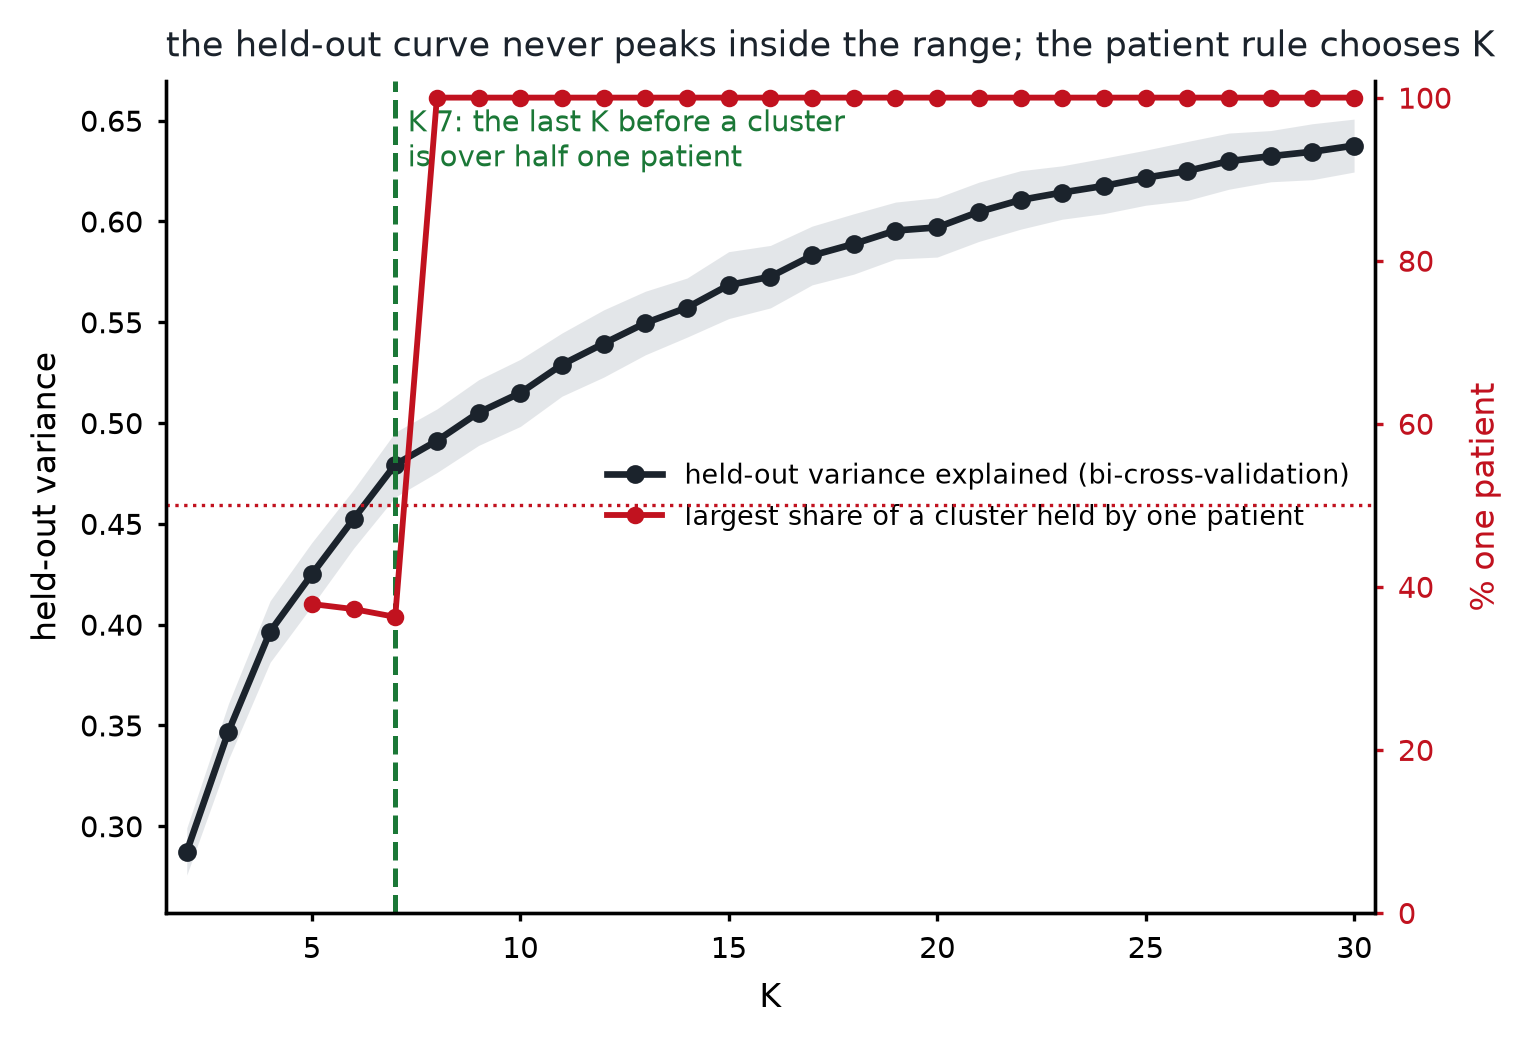
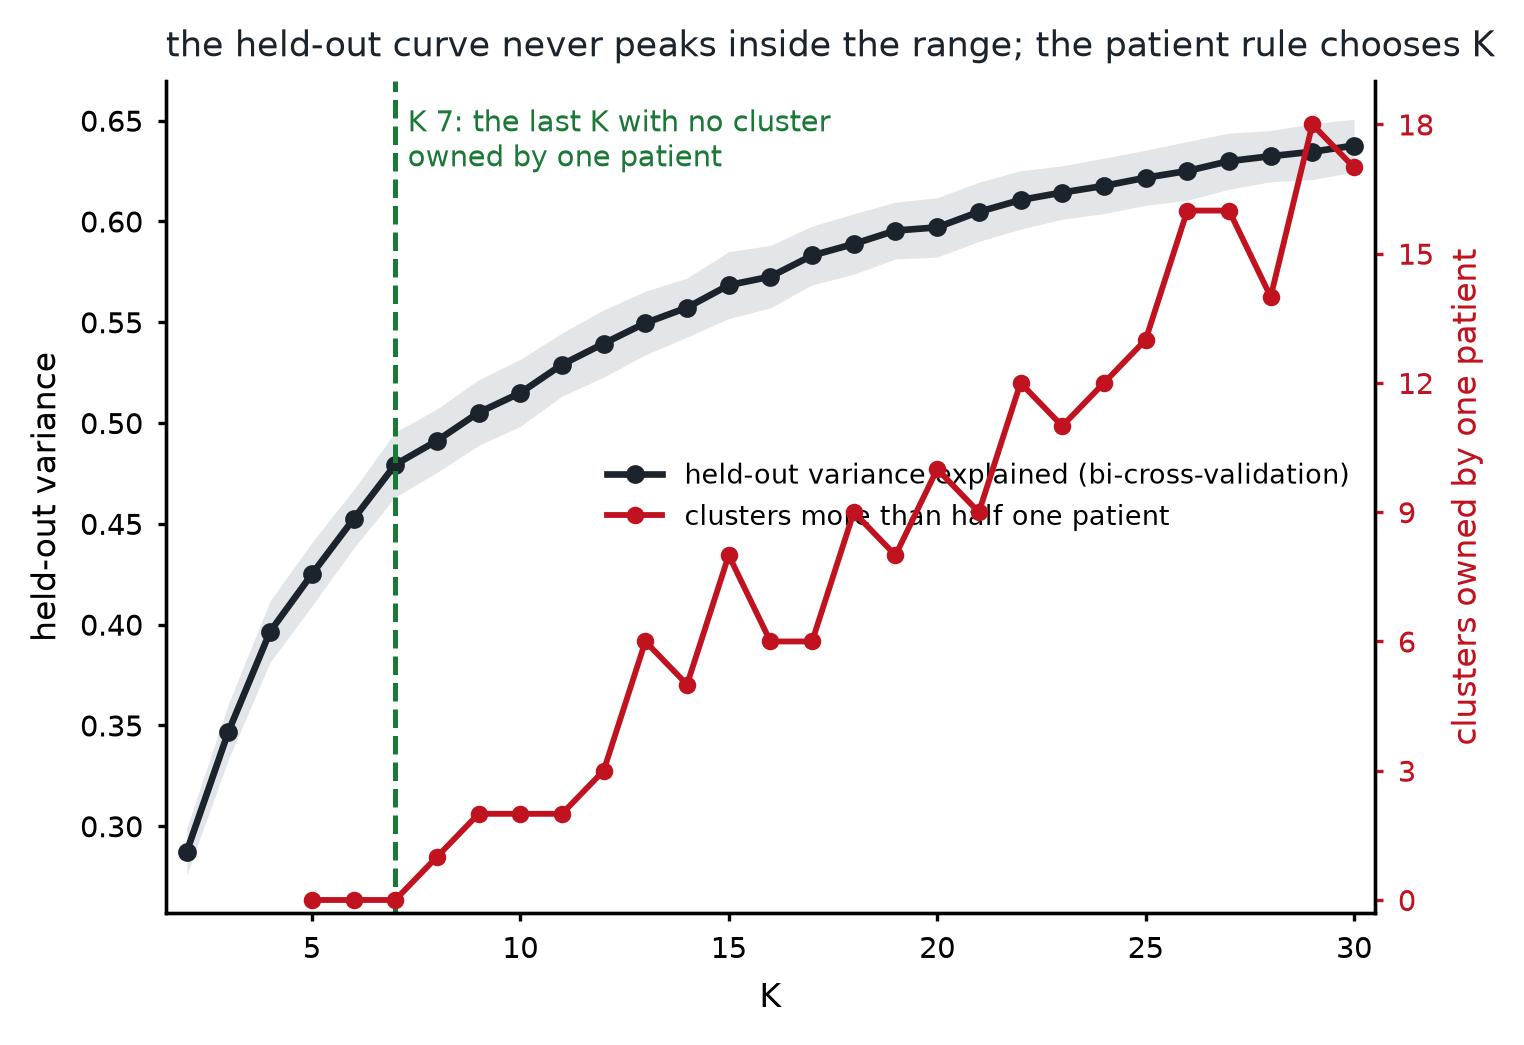
Poster round 3: figure 1 as one column (task screens, aligned ERSPs, cohort brains), agreement bars without the table (values for a native table in the prompt), the K panel counting patient-owned clusters, the Neurosynth enrichment panel from member_measures (Lora, 2026-11-03)
make_poster_assets.py --no-render reuses the saved brain tiles when the screen is locked (VTK crashes outright).

diff --git a/02_FBM_Clustering/make_poster_assets.py b/02_FBM_Clustering/make_poster_assets.py
@@ -56,6 +56,7 @@ DARK, LIGHT = "#3a3a3a", "#9a9a9a"                        # FIG 2C's greys: algo
 NL = chr(10)
 DPI = 300
 EXAMPLE = ("EL035", "TTG_R1")                              # the paper's example electrode (FIG 1 B)
+NO_RENDER = False                                           # --no-render: reuse the saved brain tiles (a locked screen crashes VTK)
 
 
 def cache_input_dir():
@@ -157,6 +158,64 @@ def row1(d):
     return p
 
 
+# ---------------------------------------------------------------- figure 1 as a column
+def row1_column(d):
+    """The task screens; under them one electrode's full ERSP and its 15-band summary, condition
+    by condition in the same columns; the three cohort brains at the bottom."""
+    fig0 = CL / "paper_figures" / "paper" / "FIG0_cohort_v17.png"
+    task0 = Image.open(fig0).convert("RGB"); w0, h0 = task0.size
+    bands = [(0.170, 0.405), (0.415, 0.650), (0.660, 0.895)]
+    screens = [task0.crop((int(x0 * w0), int(0.005 * h0), int(x1 * w0), int(0.125 * h0))) for x0, x1 in bands]
+    inp = cache_input_dir()
+    df, Xc = CC.build_concat_dataset(inp, conditions=("audio", "picture", "reading"), require_high_activity=True, cache_dir=CC.DEFAULT_CONCAT_CACHE, verbose=False)
+    i_raw = int(np.where((df.patient_id.values == EXAMPLE[0]) & (df.electrode.astype(str).values == EXAMPLE[1]))[0][0])
+    raw = Xc[i_raw]
+    m = d["meta"]; i15 = [k_ for k_, (p, e) in enumerate(zip(m.patient_id, m.electrode)) if p == EXAMPLE[0] and P2.norm(e) == P2.norm(EXAMPLE[1])][0]
+    cube = d["C"][i15]
+    pcol = P2.patient_colours(d); n = len(d["xyz"])
+    xt = lambda ax, c_: (ax.set_xticks([0, 50, 100] if c_ == 2 else [0, 50]), ax.set_xticklabels(["0", "50", "100 %"] if c_ == 2 else ["0", "50"], fontsize=6.5))
+    cols = np.array([pcol[p][:3] for p in d["patient"]]); rads = np.full(n, 1.35); al = np.full(n, 235.0)
+    brains = {}
+    for s_ in ("L", "T", "R"):
+        tile = OUT / f"tile_brain_{s_}.png"
+        if NO_RENDER:                               # a locked screen crashes VTK outright: reuse the saved tile
+            if not tile.exists():
+                raise SystemExit(f"--no-render but no saved tile {tile.name}: run once with the screen unlocked")
+            brains[s_] = np.asarray(Image.open(tile).convert("RGBA"))
+        else:
+            brains[s_] = render_all(s_, d, cols, rads, al, zoom=1.25)
+            Image.fromarray(brains[s_]).save(tile)
+    nt_raw = raw.shape[1] // 3; nt = d["nt"]
+    fig = plt.figure(figsize=(7.4, 10.2), dpi=DPI)
+    gs = GridSpec(4, 3, figure=fig, height_ratios=[1.0, 1.25, 0.9, 1.7], left=0.09, right=0.93, top=0.985, bottom=0.03, hspace=0.28, wspace=0.05)
+    for c_ in range(3):
+        ax = image_axes(fig, gs[0, c_]); ax.imshow(screens[c_])
+    for c_ in range(3):
+        ax = fig.add_subplot(gs[1, c_])
+        im = ax.imshow(raw[:, c_ * nt_raw:(c_ + 1) * nt_raw], aspect="auto", origin="lower", cmap="bwr", vmin=-7, vmax=7, extent=(0, 100, 0, 400))
+        ax.axvline(50, color=INK, lw=0.7, ls="--"); xt(ax, c_); ax.tick_params(labelsize=6.5, length=2)
+        if c_ == 0:
+            ax.set_yticks([0, 100, 200, 300, 400]); ax.set_ylabel("Hz", fontsize=7.5)
+            ax.set_title(f"the full ERSP of one electrode ({EXAMPLE[0]} {EXAMPLE[1]}), ±7 dB", fontsize=7.5, color=MUTED, loc="left")
+        else:
+            ax.set_yticks([])
+    for c_ in range(3):
+        ax = fig.add_subplot(gs[2, c_])
+        ax.imshow(cube[c_], aspect="auto", origin="lower", cmap="bwr", vmin=-7, vmax=7, extent=(0, 100, -0.5, 14.5))
+        ax.axvline(50, color=INK, lw=0.7, ls="--"); xt(ax, c_); ax.tick_params(length=2)
+        if c_ == 0:
+            ax.set_yticks([0, 4, 7, 9, 14]); ax.set_yticklabels([d["bands"][i].replace("Hz", "") for i in (0, 4, 7, 9, 14)], fontsize=6.5); ax.set_ylabel("Hz", fontsize=7.5)
+            ax.set_title("the same electrode as the pipeline sees it: 15 bands × 30 time bins per condition", fontsize=7.5, color=MUTED, loc="left")
+        else:
+            ax.set_yticks([])
+    cax = fig.add_axes([0.945, 0.40, 0.012, 0.30]); cb = fig.colorbar(im, cax=cax); cb.ax.tick_params(labelsize=6.5); cb.set_label("dB", fontsize=7)
+    for c_, (s_, ttl) in enumerate((("L", f"left, {int((d['hemi'] == 'L').sum())} electrodes"), ("T", f"from above, {n}"), ("R", f"right, {int((d['hemi'] == 'R').sum())}"))):
+        ax = image_axes(fig, gs[3, c_]); ax.imshow(brains[s_]); ax.set_title(ttl, fontsize=7.5, color=MUTED, loc="left")
+    fig.text(0.09, 0.005, "the 1587 electrodes that passed the response gate, each patient its colour", fontsize=7.5, color=MUTED, va="bottom")
+    p = OUT / "figure1_column.png"; fig.savefig(p, facecolor="white"); plt.close(fig)
+    return p
+
+
 # ---------------------------------------------------------------- agreement: grey bars and the table
 def agreement(d):
     cap = sorted(glob.glob(str(CL / "paper_figures" / "FIG4_K07_run*_caption.txt")))[-1]
@@ -198,6 +257,19 @@ def agreement(d):
             cell.set_text_props(ha="left"); cell.set_width(0.34)
     axt.set_title("the share of electrodes on the matched diagonal, against random pairings of the same two solutions", fontsize=8, loc="left", color=INK)
     p = OUT / "agreement_bars_table.png"; fig.savefig(p, facecolor="white", bbox_inches="tight"); plt.close(fig)
+    # the bars alone (the poster's table is built natively from the values printed here)
+    fig, ax = plt.subplots(figsize=(7.4, 3.0), dpi=DPI)
+    for yi, r in zip(y, items):
+        ax.barh(yi, r["adj"], color=DARK if r in algo else LIGHT, height=0.66)
+        ax.text(r["adj"] + 0.012, yi, f"{r['adj']:.2f}   ·   {min(r['n_free'], r['n_within'])} of {r['n_pairs']} pairs clear both nulls", va="center", fontsize=7.5, color=INK)
+    ax.set_yticks(y); ax.set_yticklabels([r["name"] for r in items], fontsize=8)
+    ax.set_xlim(0, 1.0); ax.set_xticks([0, 0.25, 0.5, 0.75, 1]); ax.tick_params(labelsize=7, length=2)
+    ax.set_xlabel("mean adjusted overlap of the matched clusters (0 chance, 1 identical)", fontsize=7.5, color=MUTED)
+    ax.spines[["top", "right"]].set_visible(False)
+    ax.set_title("dark: another algorithm on the same 15 bands  ·  light: convex NMF on another description", fontsize=8, loc="left", color=INK)
+    fig.savefig(OUT / "agreement_bars.png", facecolor="white", bbox_inches="tight"); plt.close(fig)
+    (OUT / "agreement_table.md").write_text(NL.join(["| comparison | diagonal share | random pairings | ARI | matched r |", "|---|---|---|---|---|"]
+        + [f"| {c[0]} | {c[1]} | {c[2]} | {c[3]} | {c[4]} |" for c in cells]) + NL, encoding="utf-8")
     return p
 
 
@@ -236,27 +308,28 @@ def stability(d):
     hv = hv[(hv.feature_set == REF) & (hv.method == "cnmf") & hv.scheme.isin(P2.HOME_SCHEMES) & (hv.cache == cache)]
     curve = hv.groupby("k").var_explained.agg(["mean", "std"]).reset_index()
     lbk = pd.read_csv(d["run"] / "cluster_labels_by_k.csv"); pats = np.asarray(d["patient"]).astype(str)
-    ks, worst = [], []
+    ks, ndom = [], []
     for c_ in lbk.columns:
         if not c_.startswith("k_"):
             continue
-        k_ = int(c_[2:]); l_ = lbk[c_].to_numpy(int); w = 0.0
+        k_ = int(c_[2:]); l_ = lbk[c_].to_numpy(int); cnt = 0
         for c in range(k_):
             m_ = l_ == c
-            if m_.any():
-                w = max(w, float(pd.Series(pats[m_]).value_counts(normalize=True).iloc[0]))
-        ks.append(k_); worst.append(w)
+            if m_.any() and float(pd.Series(pats[m_]).value_counts(normalize=True).iloc[0]) > 0.5:
+                cnt += 1
+        ks.append(k_); ndom.append(cnt)
     fig, ax = plt.subplots(figsize=(5.2, 3.6), dpi=DPI)
     ax.fill_between(curve.k, curve["mean"] - curve["std"], curve["mean"] + curve["std"], color=GREY, alpha=0.5, lw=0)
     ax.plot(curve.k, curve["mean"], "-o", color=INK, ms=3.5, lw=1.6, label="held-out variance explained (bi-cross-validation)")
     ax.set_xlabel("K", fontsize=8); ax.set_ylabel("held-out variance", fontsize=8); ax.tick_params(labelsize=7, length=2)
     ax2 = ax.twinx()
-    ax2.plot(ks, [100 * w for w in worst], "-o", color=RED, ms=3.2, lw=1.4, label="largest share of a cluster held by one patient")
-    ax2.axhline(50, color=RED, lw=0.8, ls=":"); ax2.set_ylim(0, 102); ax2.set_ylabel("% one patient", fontsize=8, color=RED); ax2.tick_params(labelsize=7, length=2, colors=RED)
-    ax.axvline(K, color=GREEN, lw=1.2, ls="--"); ax.text(K + 0.3, ax.get_ylim()[1] - 0.03 * np.ptp(ax.get_ylim()), "K 7: the last K before a cluster" + NL + "is over half one patient", fontsize=7, color=GREEN, va="top")
+    ax2.plot(ks, ndom, "-o", color=RED, ms=3.2, lw=1.4, label="clusters more than half one patient")
+    ax2.set_ylim(-0.3, max(ndom) + 1); ax2.set_yticks(range(0, max(ndom) + 1, max(1, (max(ndom) + 1) // 6)))
+    ax2.set_ylabel("clusters owned by one patient", fontsize=8, color=RED); ax2.tick_params(labelsize=7, length=2, colors=RED)
+    ax.axvline(K, color=GREEN, lw=1.2, ls="--"); ax.text(K + 0.3, ax.get_ylim()[1] - 0.03 * np.ptp(ax.get_ylim()), "K 7: the last K with no cluster" + NL + "owned by one patient", fontsize=7, color=GREEN, va="top")
     ax.set_xlim(min(curve.k) - 0.5, max(curve.k) + 0.5)
     h1, l1 = ax.get_legend_handles_labels(); h2, l2 = ax2.get_legend_handles_labels()
-    ax.legend(h1 + h2, l1 + l2, fontsize=6.6, frameon=False, loc="center right")
+    ax.legend(h1 + h2, l1 + l2, fontsize=6.6, frameon=False, loc="upper center", bbox_to_anchor=(0.5, -0.17), ncol=2)
     ax.spines[["top"]].set_visible(False); ax2.spines[["top"]].set_visible(False)
     ax.set_title("the held-out curve never peaks inside the range; the patient rule chooses K", fontsize=8.5, loc="left", color=INK)
     pk = OUT / "stability_K.png"; fig.savefig(pk, facecolor="white", bbox_inches="tight"); plt.close(fig)
@@ -326,11 +399,14 @@ def main() -> int:
             try: stream.reconfigure(errors="replace")
             except Exception: pass
     ap = argparse.ArgumentParser(description=__doc__.strip().splitlines()[0])
-    ap.add_argument("--only", nargs="+", default=["row1", "agreement", "stability", "separation"], choices=["row1", "agreement", "stability", "separation"])
+    ap.add_argument("--only", nargs="+", default=["figure1", "agreement", "stability", "separation"], choices=["row1", "figure1", "agreement", "stability", "separation"])
+    ap.add_argument("--no-render", action="store_true", help="figure 1 reuses the saved brain tiles instead of rendering (no VTK)")
     a = ap.parse_args()
+    global NO_RENDER
+    NO_RENDER = a.no_render
     OUT.mkdir(parents=True, exist_ok=True)
     d = load_ref()
-    steps = dict(row1=row1, agreement=agreement, stability=stability, separation=separation)
+    steps = dict(row1=row1, figure1=row1_column, agreement=agreement, stability=stability, separation=separation)
     for name in a.only:
         p = steps[name](d)
         im = Image.open(p); print(f"  {name:11s} -> {p.name}  {im.size[0]} x {im.size[1]} px")

diff --git a/02_FBM_Clustering/outputs/clustering/paper_figures/poster/poster_round3_prompt.md b/02_FBM_Clustering/outputs/clustering/paper_figures/poster/poster_round3_prompt.md
@@ -1,0 +1,30 @@
+# Round 3 for Claude Design: paste below the line, attach the files named (2026-11-03)
+
+---
+
+Keep the A0 layout and the colour rules. Four changes.
+
+1. Row 1, "The task and the cohort": replace the five-tile strip with figure1_column.png, one column: the task screens on top, under them one electrode's full ERSP and its 15-band summary aligned condition by condition, the three cohort brains at the bottom. Give the box the full height it needs; the text goes under the brains.
+
+2. Row 3, "Agreement": keep only the bar figure (agreement_bars.png). Under it build a native table, six rows, five columns, with these values, in the body type size minus 4 pt, rules in #c9ced4 only, no fills, no bold except the header:
+
+| comparison | diagonal share | random pairings | ARI | matched r |
+|---|---|---|---|---|
+| convex NMF vs k-means | 0.73 | 0.14 ± 0.11 | 0.51 | +0.95 |
+| convex NMF vs Ward | 0.52 | 0.15 ± 0.08 | 0.26 | +0.78 |
+| k-means vs Ward | 0.61 | 0.14 ± 0.09 | 0.33 | +0.81 |
+| 15 bands vs 5 bands | 0.60 | 0.14 ± 0.09 | 0.38 | +0.77 |
+| 15 bands vs 2 bands | 0.40 | 0.14 ± 0.06 | 0.15 | +0.57 |
+| 15 bands vs HFA | 0.21 | 0.14 ± 0.04 | 0.07 | +0.39 |
+
+Caption under the table: "Diagonal share: the fraction of electrodes on the matched diagonal of the two solutions' contingency table, against random pairings of the same two clusterings (1000 draws). Matched r: the centroid correlation of the matched pairs."
+
+3. Row 3, "Stability": replace the figure with the new stability_row.png. The right panel now shows, in red, the number of clusters that are more than half one patient at each K (0 up to K 7, 1 at K 8), against the held-out variance in black. Text stays.
+
+4. Row 4, "Where they sit": the Neurosynth box gets neurosynth_15band_enrichment.png, placed at the full width of its slot. Caption: "How often each type's electrodes fall inside each NeuroSynth association map, as enrichment against the cohort rate (1 = as often as any electrode); outlined cells have their whole patient-bootstrap interval above 1. The audio-stimulus type sits in the auditory, speech-perception and speech-production maps 6, 4 and 3 times more often than the cohort; production in the semantic map, low-frequency rise in retrieval, beta decrease in visual, each about 1.5 times."
+
+## Files (under S:\HumanNeuronLab\ANALYSIS\FLM\Analysis_LoraFanda\02_FBM_Clustering\outputs\clustering\paper_figures\poster\)
+- assets\figure1_column.png (2220 x 3060 px)
+- assets\agreement_bars.png (bars only)
+- assets\stability_row.png (consensus matrix and the K panel)
+- assets\neurosynth_15band_enrichment.png (copied from member_measures\out\neurosynth_enrichment\15band_enrichment.png)

diff --git a/02_FBM_Clustering/outputs/clustering/paper_figures/poster/assets/agreement_table.md b/02_FBM_Clustering/outputs/clustering/paper_figures/poster/assets/agreement_table.md
@@ -1,0 +1,8 @@
+| comparison | diagonal share | random pairings | ARI | matched r |
+|---|---|---|---|---|
+| convex NMF vs k-means | 0.73 | 0.14 ± 0.11 | 0.51 | +0.95 |
+| convex NMF vs Ward | 0.52 | 0.15 ± 0.08 | 0.26 | +0.78 |
+| k-means vs Ward | 0.61 | 0.14 ± 0.09 | 0.33 | +0.81 |
+| 15 bands vs 5 bands | 0.60 | 0.14 ± 0.09 | 0.38 | +0.77 |
+| 15 bands vs 2 bands | 0.40 | 0.14 ± 0.06 | 0.15 | +0.57 |
+| 15 bands vs HFA | 0.21 | 0.14 ± 0.04 | 0.07 | +0.39 |
